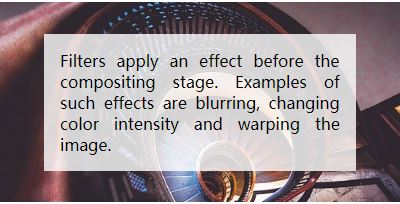
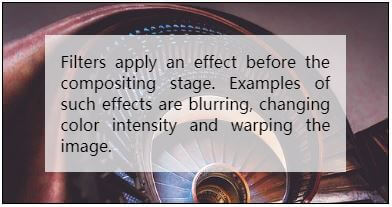
Site updated: 2019-07-19 14:20:58

diff --git a/2019/07/16/frosted-glass/index.html b/2019/07/16/frosted-glass/index.html
@@ -136,22 +136,28 @@
 
 
 
-<meta name="description" content="毛玻璃效果🤔问题当背景图太过花哨，使得内容层的文字难以阅读时，应该怎么办呢？  我的想法是常规地添加个透明背景：    透明度0.3 透明度0.8        说实话，加了背景色之后虽然能看清文字了，可大大一块颜色不怎么好看呀。有什么办法能让文字和背景图更好地融合呢？答案就是本文的主角：毛玻璃。 什么是毛玻璃效果呢？看看QQ音乐歌词的界面就知道了。歌词能很清楚地被看到，因为文本覆盖的图片区域被">
+<meta name="description" content="毛玻璃效果🤔问题当背景图太过花哨，使得内容层的文字难以阅读时，应该怎么办呢？  我的想法是常规地添加个透明背景：    黑底白字 白底黑子        说实话，加了背景色之后虽然能看清文字了，可大大一块颜色不怎么好看呀。有什么办法能让文字和背景图更好地融合呢？毛玻璃可能是个不错的选择。 什么是毛玻璃效果？看看QQ音乐歌词的界面就知道了。歌词能很清楚地被看到，因为文本覆盖的图片区域被大大地模糊了">
 <meta name="keywords" content="CSS">
 <meta property="og:type" content="article">
 <meta property="og:title" content="frosted glass">
 <meta property="og:url" content="https://fujiayishally.github.io/2019/07/16/frosted-glass/index.html">
 <meta property="og:site_name" content="Shally&#39;s Blog">
-<meta property="og:description" content="毛玻璃效果🤔问题当背景图太过花哨，使得内容层的文字难以阅读时，应该怎么办呢？  我的想法是常规地添加个透明背景：    透明度0.3 透明度0.8        说实话，加了背景色之后虽然能看清文字了，可大大一块颜色不怎么好看呀。有什么办法能让文字和背景图更好地融合呢？答案就是本文的主角：毛玻璃。 什么是毛玻璃效果呢？看看QQ音乐歌词的界面就知道了。歌词能很清楚地被看到，因为文本覆盖的图片区域被">
+<meta property="og:description" content="毛玻璃效果🤔问题当背景图太过花哨，使得内容层的文字难以阅读时，应该怎么办呢？  我的想法是常规地添加个透明背景：    黑底白字 白底黑子        说实话，加了背景色之后虽然能看清文字了，可大大一块颜色不怎么好看呀。有什么办法能让文字和背景图更好地融合呢？毛玻璃可能是个不错的选择。 什么是毛玻璃效果？看看QQ音乐歌词的界面就知道了。歌词能很清楚地被看到，因为文本覆盖的图片区域被大大地模糊了">
 <meta property="og:locale" content="zh-Hans">
 <meta property="og:image" content="https://fujiayishally.github.io/2019/07/16/frosted-glass/2019-07-16-frosted-glass/3-1.JPG">
 <meta property="og:image" content="https://fujiayishally.github.io/2019/07/16/frosted-glass/2019-07-16-frosted-glass/3-2.JPG">
 <meta property="og:image" content="https://fujiayishally.github.io/2019/07/16/frosted-glass/2019-07-16-frosted-glass/3-3.JPG">
 <meta property="og:image" content="https://fujiayishally.github.io/2019/07/16/frosted-glass/2019-07-16-frosted-glass/3-4.JPG">
-<meta property="og:updated_time" content="2019-07-17T00:14:54.204Z">
+<meta property="og:image" content="https://fujiayishally.github.io/2019/07/16/frosted-glass/2019-07-16-frosted-glass/3-5.JPG">
+<meta property="og:image" content="https://fujiayishally.github.io/2019/07/16/frosted-glass/2019-07-16-frosted-glass/3-6.JPG">
+<meta property="og:image" content="https://fujiayishally.github.io/2019/07/16/frosted-glass/2019-07-16-frosted-glass/3-1.JPG">
+<meta property="og:image" content="https://fujiayishally.github.io/2019/07/16/frosted-glass/2019-07-16-frosted-glass/3-7.JPG">
+<meta property="og:image" content="https://fujiayishally.github.io/2019/07/16/frosted-glass/2019-07-16-frosted-glass/3-8.JPG">
+<meta property="og:image" content="https://fujiayishally.github.io/2019/07/16/frosted-glass/2019-07-16-frosted-glass/scroll.gif">
+<meta property="og:updated_time" content="2019-07-19T06:14:07.716Z">
 <meta name="twitter:card" content="summary">
 <meta name="twitter:title" content="frosted glass">
-<meta name="twitter:description" content="毛玻璃效果🤔问题当背景图太过花哨，使得内容层的文字难以阅读时，应该怎么办呢？  我的想法是常规地添加个透明背景：    透明度0.3 透明度0.8        说实话，加了背景色之后虽然能看清文字了，可大大一块颜色不怎么好看呀。有什么办法能让文字和背景图更好地融合呢？答案就是本文的主角：毛玻璃。 什么是毛玻璃效果呢？看看QQ音乐歌词的界面就知道了。歌词能很清楚地被看到，因为文本覆盖的图片区域被">
+<meta name="twitter:description" content="毛玻璃效果🤔问题当背景图太过花哨，使得内容层的文字难以阅读时，应该怎么办呢？  我的想法是常规地添加个透明背景：    黑底白字 白底黑子        说实话，加了背景色之后虽然能看清文字了，可大大一块颜色不怎么好看呀。有什么办法能让文字和背景图更好地融合呢？毛玻璃可能是个不错的选择。 什么是毛玻璃效果？看看QQ音乐歌词的界面就知道了。歌词能很清楚地被看到，因为文本覆盖的图片区域被大大地模糊了">
 <meta name="twitter:image" content="https://fujiayishally.github.io/2019/07/16/frosted-glass/2019-07-16-frosted-glass/3-1.JPG">
 
 
@@ -395,8 +401,8 @@
               
                 <span class="post-meta-item-text">更新于&#58;</span>
               
-              <time title="更新于" itemprop="dateModified" datetime="2019-07-17T08:14:54+08:00">
-                2019-07-17
+              <time title="更新于" itemprop="dateModified" datetime="2019-07-19T14:14:07+08:00">
+                2019-07-19
               </time>
             
           </span>
@@ -488,8 +494,8 @@
 <table>
 <thead>
 <tr>
-<th align="center">透明度0.3</th>
-<th align="center">透明度0.8</th>
+<th align="center">黑底白字</th>
+<th align="center">白底黑子</th>
 </tr>
 </thead>
 <tbody><tr>
@@ -497,14 +503,57 @@
 <td align="center"><img src="2019-07-16-frosted-glass/3-3.JPG" alt="给文字添加透明度为0.8的白色背景色"></td>
 </tr>
 </tbody></table>
-<p>说实话，加了背景色之后虽然能看清文字了，可大大一块颜色不怎么好看呀。有什么办法能让文字和背景图更好地融合呢？答案就是本文的主角：<strong>毛玻璃</strong>。</p>
-<p>什么是毛玻璃效果呢？看看QQ音乐歌词的界面就知道了。歌词能很清楚地被看到，因为文本覆盖的图片区域被大大地模糊了，人在阅读时就会更专注于清晰可辨的文字。</p>
+<p>说实话，加了背景色之后虽然能看清文字了，可大大一块颜色不怎么好看呀。有什么办法能让文字和背景图更好地融合呢？<strong>毛玻璃</strong>可能是个不错的选择。</p>
+<p>什么是毛玻璃效果？看看QQ音乐歌词的界面就知道了。歌词能很清楚地被看到，因为文本覆盖的图片区域被大大地模糊了，人在阅读时就会更专注于清晰可辨的文字。</p>
 <p><img src="2019-07-16-frosted-glass/3-4.JPG" alt="QQ音乐歌词界面截图"></p>
-<h2 id="💡思路"><a href="#💡思路" class="headerlink" title="💡思路"></a>💡思路</h2><p>我们用 <code>filter</code>过滤器的 <code>blur</code> 方法来实现模糊效果。如果你脑海中还不能马上浮现 <code>filter</code> 的知识图谱，不妨阅读一下<a href="https://developer.mozilla.org/zh-CN/docs/Web/CSS/filter" target="_blank" rel="noopener">MDN文档</a>或者我整理的这篇<a href="/2019/07/16/css-filter/">CSS Filter</a> 。</p>
-<h2 id="🎉解决方案"><a href="#🎉解决方案" class="headerlink" title="🎉解决方案"></a>🎉解决方案</h2><h2 id="🚧注意"><a href="#🚧注意" class="headerlink" title="🚧注意"></a>🚧注意</h2><h2 id="🌵最后"><a href="#🌵最后" class="headerlink" title="🌵最后"></a>🌵最后</h2><ul>
-<li>这是 <a href="https://codepen.io/fujiayishally/pen/WqVWzd" target="_blank" rel="noopener">本例代码</a>以供参考</li>
-<li>本问题摘自xxx，致谢</li>
-<li>点<a href="xxx">📖</a> 查看更多xxx，致敬</li>
+<h2 id="💡思路"><a href="#💡思路" class="headerlink" title="💡思路"></a>💡思路</h2><p>模糊效果可以用 <code>filter</code>过滤器的 <code>blur</code> 方法来实现。如果你脑海中还不能马上浮现 <code>filter</code> 的知识图谱，不妨阅读一下<a href="https://developer.mozilla.org/zh-CN/docs/Web/CSS/filter" target="_blank" rel="noopener">MDN文档</a>或者我整理的这篇<a href="/2019/07/16/css-filter/">CSS Filter</a> 。</p>
+<p>如果直接对元素使用<code>blur</code>，文字也会变得模糊:</p>
+<figure class="highlight plain"><table><tr><td class="gutter"><pre><span class="line">1</span><br></pre></td><td class="code"><pre><span class="line">filter:blur(2px);</span><br></pre></td></tr></table></figure>
+
+<p><img src="2019-07-16-frosted-glass/3-5.JPG" alt="添加blur后模糊了的文字"></p>
+<p>怎么才能让元素覆盖区域背景模糊，而又不影响文字的现实呢？可以在背景图元素和内容元素之间加一个中间层。它需要满足几个要求：</p>
+<ul>
+<li>中间层渲染的图像能与背景元素图像无缝衔接</li>
+<li>中间层与内容元素盒子等大</li>
+<li>由中间层实现模糊效果，内容元素叠加其上</li>
+</ul>
+<p>中间层应该是内容层的子元素盒子，能直接获取父元素大小。又因为是纯样式效果，比起增加一个<code>div</code>子元素，使用<code>伪元素</code>更利于维护DOM结构。</p>
+<h2 id="🎉解决方案"><a href="#🎉解决方案" class="headerlink" title="🎉解决方案"></a>🎉解决方案</h2><p>解决问题的关键时如何让伪元素与背景元素拥有无缝衔接的背景图。</p>
+<p><code>background-attachment:fixed</code> 的作用是让背景图相对视窗固定。当背景元素和伪元素都设置相同背景属性，并且背景相对视窗固定时，就达到视觉上的无缝衔接效果：</p>
+<figure class="highlight css"><table><tr><td class="gutter"><pre><span class="line">1</span><br><span class="line">2</span><br><span class="line">3</span><br><span class="line">4</span><br><span class="line">5</span><br></pre></td><td class="code"><pre><span class="line">background:url(https://cdn.pixabay.com/photo/2016/02/19/10/51/stairs-1209439__340.jpg) no-repeat;</span><br><span class="line"><span class="selector-tag">background-size</span><span class="selector-pseudo">:50</span>% <span class="selector-tag">auto</span>;</span><br><span class="line"><span class="selector-tag">background-position</span><span class="selector-pseudo">:50</span>% 0%;</span><br><span class="line"><span class="selector-tag">background-attachment</span><span class="selector-pseudo">:fixed</span>;</span><br><span class="line"><span class="selector-tag">border</span><span class="selector-pseudo">:solid</span> 1<span class="selector-tag">px</span> <span class="selector-tag">black</span>;</span><br></pre></td></tr></table></figure>
+
+<p>伪元素继承父元素的大小(背景色是为了方便调试)</p>
+<figure class="highlight css"><table><tr><td class="gutter"><pre><span class="line">1</span><br><span class="line">2</span><br><span class="line">3</span><br><span class="line">4</span><br><span class="line">5</span><br><span class="line">6</span><br><span class="line">7</span><br></pre></td><td class="code"><pre><span class="line"><span class="selector-class">.content</span><span class="selector-pseudo">:after</span>&#123;</span><br><span class="line">  <span class="attribute">content</span>:<span class="string">''</span>;</span><br><span class="line">  <span class="attribute">position</span>:absolute;</span><br><span class="line">  <span class="attribute">top</span>:<span class="number">0</span>;<span class="attribute">right</span>:<span class="number">0</span>;<span class="attribute">bottom</span>:<span class="number">0</span>;<span class="attribute">left</span>:<span class="number">0</span>;</span><br><span class="line">  <span class="attribute">filter</span>:<span class="built_in">blur</span>(20px);</span><br><span class="line">  <span class="attribute">background</span>:blue;</span><br><span class="line">&#125;</span><br></pre></td></tr></table></figure>
+
+<p>效果是这样的：</p>
+<p><img src="2019-07-16-frosted-glass/3-6.JPG" alt="添加伪元素"></p>
+<p>伪元素挡住了内容元素！这是理所当然的，因为伪元素某种意义上来说，相当于内容元素的子元素,且它绝对定位覆盖了父元素。所以需要手动调整伪元素的层叠顺序：</p>
+<figure class="highlight css"><table><tr><td class="gutter"><pre><span class="line">1</span><br><span class="line">2</span><br><span class="line">3</span><br><span class="line">4</span><br></pre></td><td class="code"><pre><span class="line"><span class="selector-class">.content</span><span class="selector-pseudo">:after</span>&#123;</span><br><span class="line">  ...</span><br><span class="line">  <span class="selector-tag">index</span><span class="selector-pseudo">:-1</span>;</span><br><span class="line">&#125;</span><br></pre></td></tr></table></figure>
+
+<p>但是没能解决问题：</p>
+<p><img src="2019-07-16-frosted-glass/3-1.JPG" alt="调整伪元素层叠顺序为-1"></p>
+<p>伪元素的层叠顺序不仅排在了内容元素后面，也排在了背景元素后面，为什么呢？</p>
+<p>因为背景元素、内容元素、和伪元素都处于同一层叠上下文中，<code>z-index</code>为负值时，它的层叠顺序会在普通元素盒子之后。解决办法是让内容元素拥有层叠上下文，这样伪元素的层叠顺序就与外界无关了。</p>
+<p>创建层叠上下文的方式之一，是设置<code>z-index</code>为非 <code>auto</code>值：</p>
+<figure class="highlight css"><table><tr><td class="gutter"><pre><span class="line">1</span><br><span class="line">2</span><br><span class="line">3</span><br><span class="line">4</span><br></pre></td><td class="code"><pre><span class="line"><span class="selector-class">.content</span>&#123;</span><br><span class="line">    ...</span><br><span class="line">    <span class="selector-tag">z-index</span><span class="selector-pseudo">:0</span>;</span><br><span class="line">&#125;</span><br></pre></td></tr></table></figure>
+
+<p>有进展了！伪元素渲染在背景元素之前。接下来的问题：一是伪元素的模糊效果出圈了。二是边缘处模糊效果减弱，透出了背景图：</p>
+<p><img src="2019-07-16-frosted-glass/3-7.JPG" alt="设置父子层叠上下文"></p>
+<p>前者简单，一句 <code>overflow:hidden</code> 就能解决。后者是因为模糊效果的削减幅度是模糊半径的长度，只要伪元素再向外扩展至少<code>20px</code>即可：</p>
+<figure class="highlight css"><table><tr><td class="gutter"><pre><span class="line">1</span><br><span class="line">2</span><br><span class="line">3</span><br><span class="line">4</span><br><span class="line">5</span><br><span class="line">6</span><br><span class="line">7</span><br><span class="line">8</span><br></pre></td><td class="code"><pre><span class="line"><span class="selector-class">.content</span>&#123;</span><br><span class="line">    ...</span><br><span class="line">    <span class="selector-tag">overflow</span><span class="selector-pseudo">:hidden</span>;</span><br><span class="line">&#125;</span><br><span class="line"><span class="selector-class">.content</span><span class="selector-pseudo">:before</span>&#123;</span><br><span class="line">    ...</span><br><span class="line">    margin:-50px;//保险起见，设置一个比20px更大的值</span><br><span class="line">&#125;</span><br></pre></td></tr></table></figure>
+
+<p>去掉蓝色背景，最终的渲染效果：</p>
+<p><img src="2019-07-16-frosted-glass/3-8.JPG" alt="设置父子层叠上下文"></p>
+<h2 id="🚧注意"><a href="#🚧注意" class="headerlink" title="🚧注意"></a>🚧注意</h2><p>上述解决方案有个明显的确定，因为<code>background-attachment:fixed</code> 是相对视窗固定，当出现滚动条时，背景会随着视窗固定，而内容会随着滚动条滚动：</p>
+<p><img src="2019-07-16-frosted-glass/scroll.gif" alt="背景和内容滚动不一致"></p>
+<p>要想内容和背景滚动一致，就需要计算调整伪元素背景的大小和位置，使得其显示部分能够尽量和被背景元素的图像衔接上：</p>
+<figure class="highlight css"><table><tr><td class="gutter"><pre><span class="line">1</span><br><span class="line">2</span><br><span class="line">3</span><br><span class="line">4</span><br><span class="line">5</span><br><span class="line">6</span><br><span class="line">7</span><br><span class="line">8</span><br><span class="line">9</span><br><span class="line">10</span><br><span class="line">11</span><br><span class="line">12</span><br><span class="line">13</span><br><span class="line">14</span><br><span class="line">15</span><br><span class="line">16</span><br><span class="line">17</span><br><span class="line">18</span><br><span class="line">19</span><br><span class="line">20</span><br></pre></td><td class="code"><pre><span class="line"><span class="selector-class">.background</span>&#123;</span><br><span class="line">  <span class="attribute">background-image</span>: <span class="built_in">url</span>(https://cdn.pixabay.com/photo/2016/02/19/10/51/stairs-1209439__340.jpg);</span><br><span class="line">  <span class="attribute">background-size</span>:<span class="number">100%</span>;</span><br><span class="line">  <span class="attribute">background-position</span>:<span class="number">0</span> <span class="number">0</span>;</span><br><span class="line">  <span class="attribute">width</span>:<span class="number">50%</span>;</span><br><span class="line">  ...</span><br><span class="line">&#125;</span><br><span class="line"></span><br><span class="line"><span class="selector-class">.content</span>&#123;</span><br><span class="line">  <span class="attribute">width</span>:<span class="number">80%</span>;</span><br><span class="line">  <span class="attribute">padding</span>:<span class="number">1em</span>;</span><br><span class="line">  <span class="attribute">margin</span>:<span class="number">2em</span> auto;</span><br><span class="line">  <span class="attribute">box-sizing</span>:border-box;</span><br><span class="line">  ...</span><br><span class="line">&#125;</span><br><span class="line"><span class="selector-class">.content2</span><span class="selector-pseudo">:before</span>&#123;</span><br><span class="line">  <span class="attribute">background-size</span>:<span class="number">125%</span>;</span><br><span class="line">  <span class="attribute">background-position</span>:<span class="number">50%</span> -<span class="number">2em</span>;</span><br><span class="line">  ...</span><br><span class="line">&#125;</span><br></pre></td></tr></table></figure>
+
+<p>三个元素联系紧密，不管是初始配置还是后续修改，都需要三者兼顾来实现效果。可维护性不太友好，但是背景和内容滚动同步。</p>
+<h2 id="🌵最后"><a href="#🌵最后" class="headerlink" title="🌵最后"></a>🌵最后</h2><ul>
+<li>这是 <a href="https://codepen.io/fujiayishally/pen/WqVWzd" target="_blank" rel="noopener">本例代码</a>，以供参考</li>
+<li>本问题摘自《CSS揭秘》–Lea Verou的第十八章，致谢</li>
+<li>点<a href="https://www.w3.org/TR/filter-effects/#FilterCSSImageValue" target="_blank" rel="noopener">📖</a> 查看更多过滤器标准内容</li>
 </ul>
 
         </div>

diff --git a/index.html b/index.html
@@ -1053,8 +1053,8 @@
               
                 <span class="post-meta-item-text">更新于&#58;</span>
               
-              <time title="更新于" itemprop="dateModified" datetime="2019-07-17T08:14:54+08:00">
-                2019-07-17
+              <time title="更新于" itemprop="dateModified" datetime="2019-07-19T14:14:07+08:00">
+                2019-07-19
               </time>
             
           </span>
